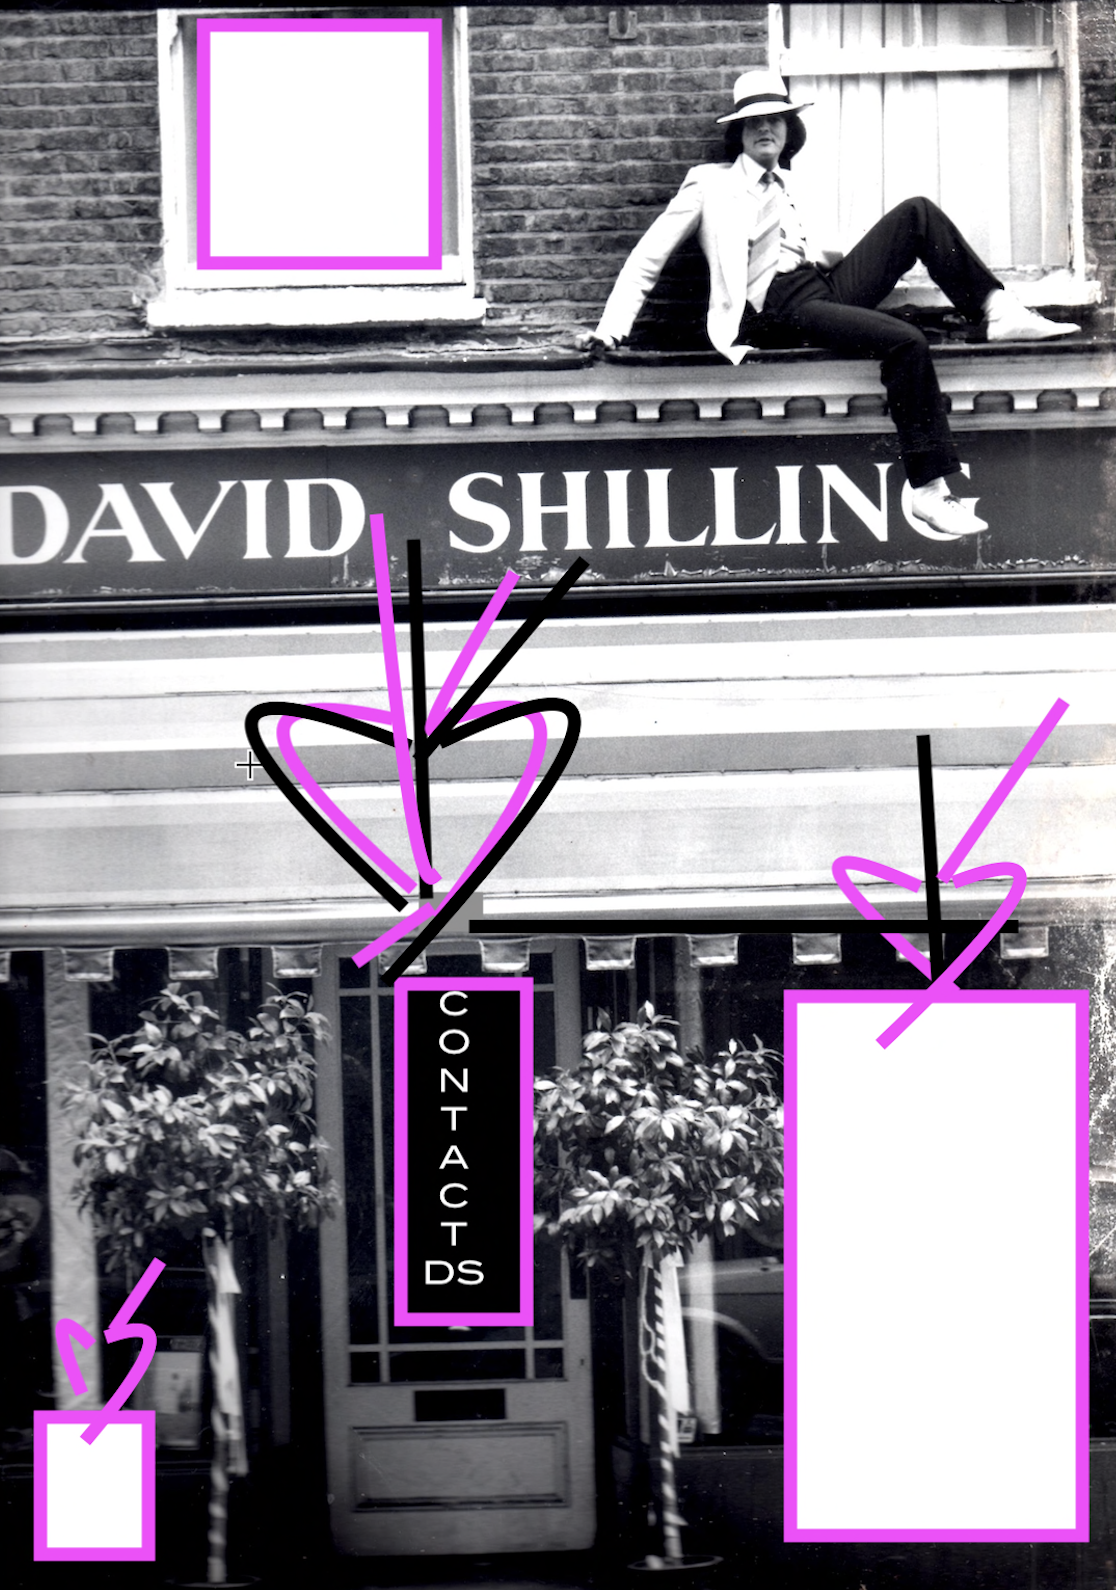
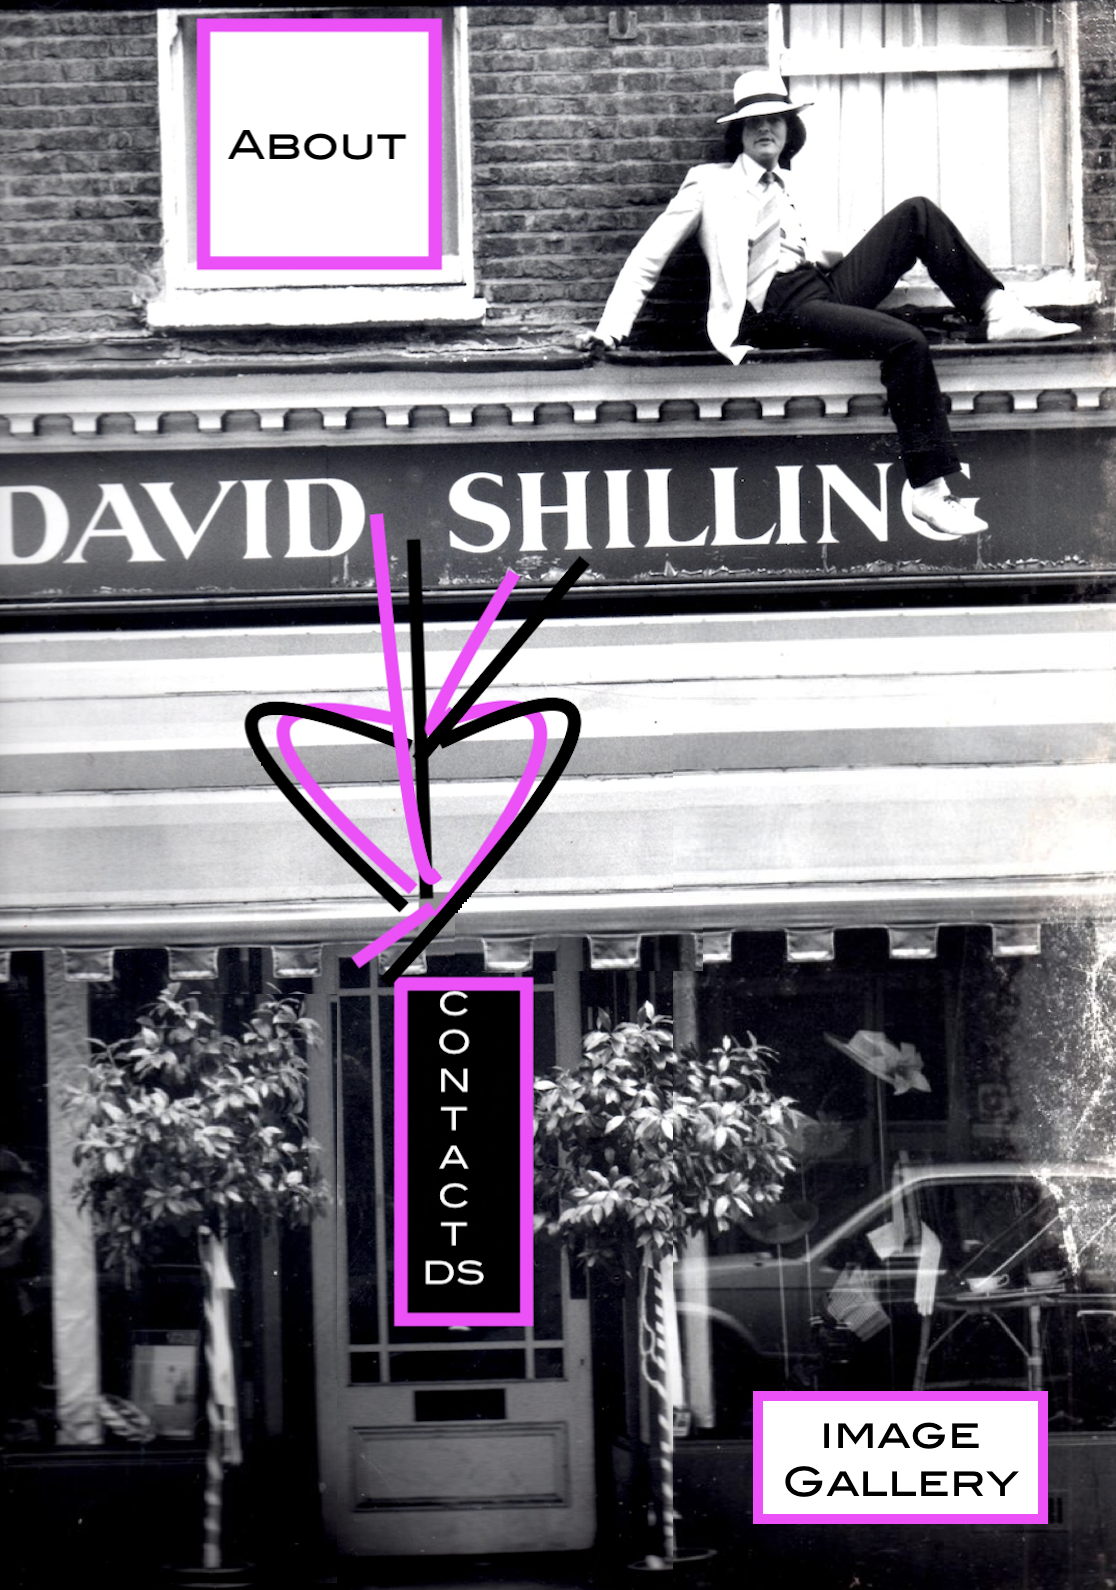
message

diff --git a/index.html b/index.html
@@ -5,37 +5,37 @@
     <meta name="viewport" content="width=device-width, initial-scale=1.0">
     <title>DAVID SHILLING</title>
     <link rel="stylesheet" href="static/index.css">
-    <script src="static/index.js"></script>
 </head>
 <body>
     <div id="container">
         <div id="pagesleft" class="column">
-            <div id="Hats" class="subPage" onclick="overlay(this.children[0].getAttribute('src'))">
+            <div id="Hats" class="subPage subPageLeft" onclick="overlay(this.children[0].getAttribute('src'))">
                     <image name="Hats" src="static/images/Hats.png" class="subImage"></image>
             </div>
-            <div id="Art" class="subPage" onclick="overlay(this.children[0].getAttribute('src'))">
+            <div id="Art" class="subPage subPageLeft" onclick="overlay(this.children[0].getAttribute('src'))">
                     <image name="Art" src="static/images/Art.png" class="subImage"></image>
             </div>
-            <div id="Beauty" class="subPage" onclick="overlay(this.children[0].getAttribute('src'))">
+            <div id="Beauty" class="subPage subPageLeft" onclick="overlay(this.children[0].getAttribute('src'))">
                     <image name="Beauty" src="static/images/Beauty.png" class="subImage"></image>
             </div>
-            <div id="Jewellery" class="subPage" onclick="overlay(this.children[0].getAttribute('src'))">
+            <div id="Jewellery" class="subPage subPageLeft" onclick="overlay(this.children[0].getAttribute('src'))">
                     <image name="Jewellery" src="static/images/Jewellery.png" class="subImage"></image>
             </div>
         </div> 
         <div id="centre" class="column">
+                <img id="centreimg" src="static/images/shillingmaybe.png" onclick="centreButtons(event)"/>
         </div>
         <div id="pagesright" class="column">
-            <div id="Music" class="subPage" onclick="overlay(this.children[0].getAttribute('src'))">
+            <div id="Music" class="subPage subPageRight" onclick="overlay(this.children[0].getAttribute('src'))">
                     <image name="Music" src="static/images/Music.png" class="subImage"></image>
             </div>
-            <div id="Philanthropy" class="subPage" onclick="overlay(this.children[0].getAttribute('src'))">
+            <div id="Philanthropy" class="subPage subPageRight" onclick="overlay(this.children[0].getAttribute('src'))">
                     <image name="Philanthropy" src="static/images/Philanthropy.png" class="subImage"></image>
             </div>
-            <div id="LAD" class="subPage" onclick="overlay(this.children[0].getAttribute('src'))">
+            <div id="LAD" class="subPage subPageRight" onclick="overlay(this.children[0].getAttribute('src'))">
                     <image name="LAD" src="static/images/LAD.png" class="subImage"></image>
             </div>
-            <div id="HST" class="subPage" onclick="overlay(this.children[0].getAttribute('src'))"> 
+            <div id="HST" class="subPage subPageRight" onclick="overlay(this.children[0].getAttribute('src'))"> 
                     <image name="HST" src="static/images/HST.png" class="subImage"></image>
             </div>
         </div> 
@@ -45,5 +45,6 @@
     <div id="overlay" hidden="true" onclick="hideOverlay(event)">
         <image name='overlayImage' id="overlayImage" hidden="true"><image/>
     </div>
+    <script src="static/index.js"></script>
 </body>
 </html>

diff --git a/static/index.js b/static/index.js
@@ -19,65 +19,24 @@ function hideOverlay (e) {
     tint.hidden = true
 }
 
-let body = document.getElementById('body');
+function centreButtons(e) {
+    var box = document.querySelector('#centreimg')
+    
+    if (e.offsetX / box.offsetWidth > 79 / 441 && e.offsetX / box.offsetWidth < 175 / 441){
+        if (e.offsetY / box.offsetHeight > 10 / 630 && e.offsetY / box.offsetHeight < 110 / 630){
+            console.log('about')
+        }
+    }
 
-body.style.border = `${16/1470*window.innerWidth}px solid #FF00FF`
+    if (e.offsetX / box.offsetWidth > 156 / 441 && e.offsetX / box.offsetWidth < 211 / 441){
+        if (e.offsetY / box.offsetHeight > 389 / 630 && e.offsetY / box.offsetHeight < 526 / 630){
+            window.location.href = '/contact.html';
+        }
+    }
 
-const canvas = document.getElementById("myCanvas");
-const ctx = canvas.getContext("2d");
-
-
-ctx.canvas.width  = window.innerWidth-(33/1470*window.innerWidth);
-ctx.canvas.height = window.innerHeight-(33/802*window.innerHeight);
-
-drawStar(ctx, 180, 480, 5, 70, 30, 10, 'black', 'magenta');
-drawStar(ctx, 1200/1470*ctx.canvas.width, 330/802*ctx.canvas.height, 5, 130/1470*ctx.canvas.width, 55/1470*ctx.canvas.width, 10, 'black', 'magenta');
-drawStar(ctx, 740/1470*ctx.canvas.width, 660/802*ctx.canvas.height, 5, 35/1470*ctx.canvas.width, 12/1470*ctx.canvas.width, 10, 'black', 'magenta');
-drawStar(ctx, 330/1470*ctx.canvas.width, 620/802*ctx.canvas.height, 5, 70/1470*ctx.canvas.width, 30/1470*ctx.canvas.width, 15, 'black', 'black');
-drawStar(ctx, 330/1470*ctx.canvas.width, 620/802*ctx.canvas.height, 5, 10/1470*ctx.canvas.width, 4/1470*ctx.canvas.width, 15, 'white', 'white');
-drawStar(ctx, ctx.canvas.width / 2, 140/802*ctx.canvas.height, 5, 55/1470*ctx.canvas.width, 22/1470*ctx.canvas.width, 15, 'black', 'black');
-drawStar(ctx, ctx.canvas.width / 2, 140/802*ctx.canvas.height, 5, 10/1470*ctx.canvas.width, 4/1470*ctx.canvas.width, 15, 'white', 'white');
-drawStar(ctx, 1000/1470*ctx.canvas.width, 130/802*ctx.canvas.height, 5, 70/1470*ctx.canvas.width, 15/1470*ctx.canvas.width, 15, 'black', 'black');
-
-function getBorderWidth(){
-    if (window.innerWidth > window.innerHeight) return window.innerWidth / 10
-    else return window.innerWidth
-}
-
-body = document.getElementsByTagName("body")
-body.style.border = getBorderWidth()
-window.onresize = (event) => {
-    ctx.canvas.width  = window.innerWidth;
-    ctx.canvas.height = window.innerHeight;
-    body.style.border = getBorderWidth()
-}
-
-function drawStar(ctx, cx, cy, spikes, outerRadius, innerRadius, width, fill, stroke) {
-let rot = Math.PI / 2 * 3;
-let x = cx;
-let y = cy;
-let step = Math.PI / spikes;
-
-ctx.beginPath();
-ctx.moveTo(cx, cy - outerRadius);
-
-for (let i = 0; i < spikes; i++) {
-x = cx + Math.cos(rot) * outerRadius;
-y = cy + Math.sin(rot) * outerRadius;
-ctx.lineTo(x, y);
-rot += step;
-
-x = cx + Math.cos(rot) * innerRadius;
-y = cy + Math.sin(rot) * innerRadius;
-ctx.lineTo(x, y);
-rot += step;
-}
-
-ctx.lineTo(cx, cy - outerRadius);
-ctx.closePath();
-ctx.lineWidth = width;
-ctx.strokeStyle = stroke;
-ctx.stroke();
-ctx.fillStyle = fill;
-ctx.fill();
+    if (e.offsetX / box.offsetWidth > 299 / 441 && e.offsetX / box.offsetWidth < 415 / 441){
+        if (e.offsetY / box.offsetHeight > 552 / 630 && e.offsetY / box.offsetHeight < 603 / 630){
+            window.location.href = '/gallery.html';
+        }
+    }
 }

diff --git a/contact.html b/contact.html
@@ -25,8 +25,8 @@
             <label for="email">Email:</label>
             <input type="email" id="email" name='email' placeholder="Enter your email">
     
-            <label for="longText">Long Text:</label>
-            <textarea id="longText" name="description" placeholder="Write longer text here"></textarea>
+            <label for="longText">Describe your area of work: </label>
+            <textarea id="longText" name="description" placeholder="..."></textarea>
         </div>
     
         <div id="pressInputs" class="hidden inputs">
@@ -35,9 +35,12 @@
     
             <label for="email">Email:</label>
             <input type="email" id="email" name='email' placeholder="Enter your email">
+
+            <label for="email">Organisation:</label>
+            <input type="email" id="email" name='email' placeholder="Enter your organisation's name">
     
-            <label for="longText">Long Text:</label>
-            <textarea id="longText" name="description" placeholder="Write longer text here"></textarea>
+            <label for="longText">Enquiry:</label>
+            <textarea id="longText" name="description" placeholder=""></textarea>
         </div>
     
         <div id="clientsInputs" class="hidden inputs">
@@ -47,11 +50,10 @@
             <label for="email">Email:</label>
             <input type="email" id="email" name='email' placeholder="Enter your email">
     
-            <label for="longText">Long Text:</label>
-            <textarea id="longText" name="description" placeholder="Write longer text here"></textarea>
+            <label for="longText">Describe what you are looking for</label>
+            <textarea id="longText" name="description" placeholder="..."></textarea>
         </div>
-        <button onclick="submitForm()">Submit</button>
-
+        <button type="hidden" onclick="submitForm()">Submit</button>
         <input type="hidden" name="accessKey" value="a589219f-42dd-4cac-88d9-dd05a37872af">
         <input type="hidden" name="redirectTo" value="127.0.0.1:5500/?success">
         </form>

diff --git a/static/index.css b/static/index.css
@@ -8,7 +8,7 @@
     grid-template-columns: 30% 40% 30%;
     grid-template-rows: 100%;
     background-size: 100% 100%;
-    background-color: black;
+    background-color: white;
 }
 
 body {
@@ -41,6 +41,13 @@ body {
     filter: brightness(90%)
 }
 
+.subPageLeft {
+    margin-right: 2%;
+}
+.subPageRight {
+    margin-left: 3%;
+}
+
 .subPage:hover {
     filter: brightness(70%)
 }
@@ -56,15 +63,19 @@ body {
 }
 
 #centre {
-    height:100%;
+    
+    height:99%;
     width:100%;
     align-items: center;
-    display: grid;
-    grid-template-rows: 70% 30%;
-    background-image: url('images/shillingmaybe.png');
+    display: flex;
     background-repeat: no-repeat;
     background-size: contain;
     background-position: center;
+}
+
+#centreimg {
+    object-fit: cover;
+    overflow: hidden;
 }
 
 #contact {

diff --git a/static/gallery.css b/static/gallery.css
@@ -29,9 +29,9 @@ html, body {
 
   .carousel-inner > .carousel-item {
     vertical-align: center;
-    height: 70vh;
+    height: 80vh;
     width: auto;
-    max-width: 70vh;
+    max-width: 80vh;
  }
 
 .inner {
